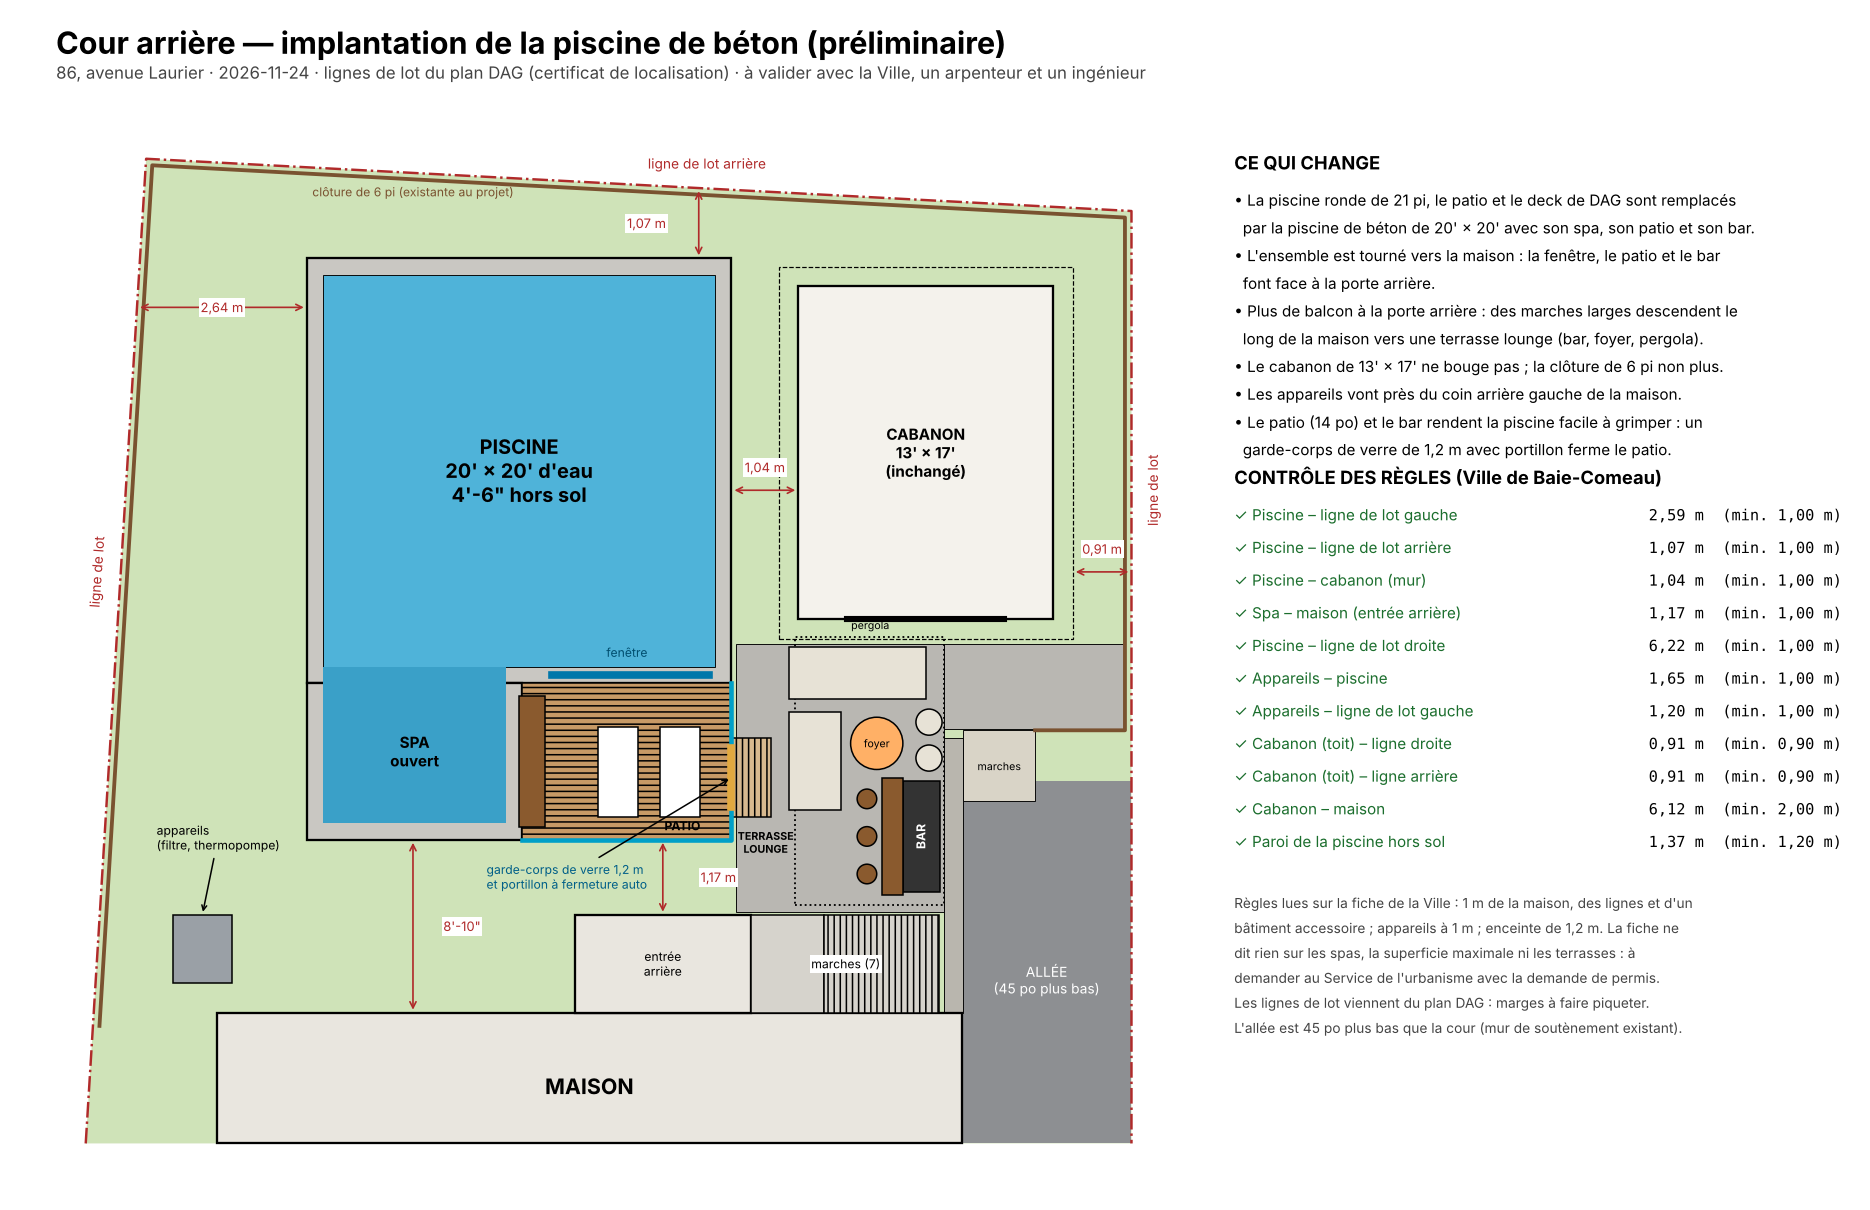
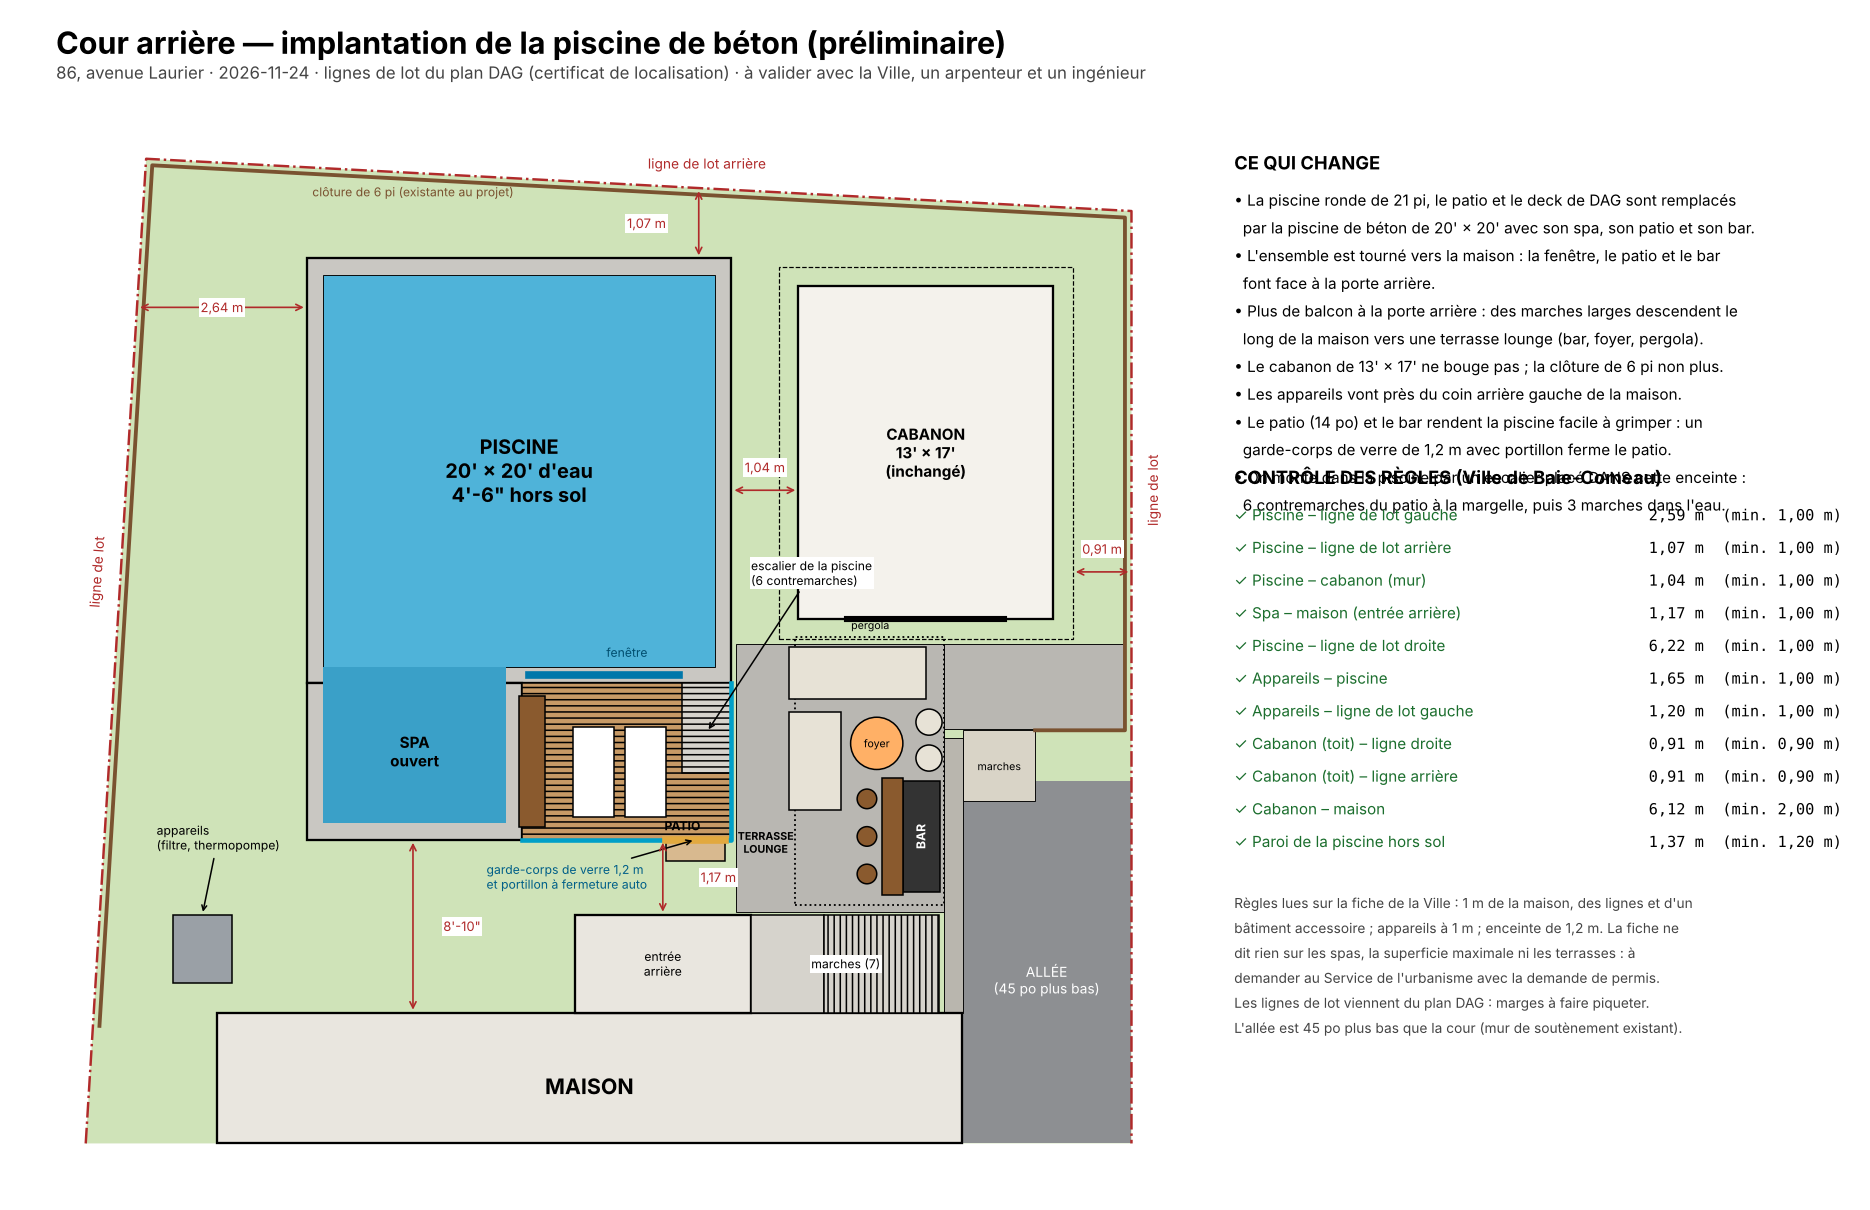
Étude piscine de béton : escalier d'accès à la piscine dans l'enceinte du patio, portillon déplacé devant, marches dans l'eau
Claude-Session: https://claude.ai/code/session_01Cx4tH5HqnUbsFvfqaidtfy

Changed region(s): [[0.2791, 0.5504, 0.4342, 0.7339], [0.6824, 0.3669, 0.9305, 0.4281], [0.4032, 0.4587, 0.4652, 0.4893]]

diff --git a/renovation/etudes/piscine_beton/cour3d.html b/renovation/etudes/piscine_beton/cour3d.html
@@ -35,7 +35,7 @@ button[aria-pressed="true"] { background: var(--encre); color: #fff; }
 </div>
 <div class="pied">
   <span><b>Piscine</b> 20' × 20' d'eau</span><span><b>Spa</b> 11'-0" × 8'-0"</span><span><b>Hauteur</b> 4'-6", eau 4'-0"</span>
-  <span><b>Fenêtre</b> 8'-0" × 2'-6"</span><span><b>Patio</b> 10'-8" × 8'-0", bar au spa</span><span><b>Marges</b> 1 m et plus partout</span><span class="long">Préliminaire, à valider avec la Ville</span>
+  <span><b>Fenêtre</b> 7'-8" × 2'-6"</span><span><b>Patio</b> 10'-8" × 8'-0", bar au spa</span><span><b>Accès</b> escalier dans l'enceinte du patio</span><span><b>Marges</b> 1 m et plus partout</span><span class="long">Préliminaire, à valider avec la Ville</span>
 </div>
 <script src="https://cdnjs.cloudflare.com/ajax/libs/three.js/r128/three.min.js"></script>
 <script src="https://cdn.jsdelivr.net/npm/three@0.128.0/examples/js/controls/OrbitControls.js"></script>
@@ -89,7 +89,7 @@ function B(x0, x1, y0, y1, z0, z1, mat, o = {}) {
     const uv = geo.attributes.uv, n = geo.attributes.normal; for (let i = 0; i < uv.count; i++) {
       const ax = Math.abs(n.getX(i)), ay = Math.abs(n.getY(i)); const su = ax > .5 ? d : w, sv = ay > .5 ? d : h; uv.setXY(i, uv.getX(i) * su / 4, uv.getY(i) * sv / 4); } }
   m.position.set((x0 + x1) / 2, (y0 + y1) / 2, (z0 + z1) / 2); m.castShadow = o.ombre !== false; m.receiveShadow = true; S.add(m); return m; }
-const L = 21.67, P = 21.67, T = .83, H = 4.5, EAU = 4.0, SW = 11, SD = 8, F0 = 12.5, F1 = 20.5, FZ0 = 1.17, FZ1 = 3.67;
+const L = 21.67, P = 21.67, T = .83, H = 4.5, EAU = 4.0, SW = 11, SD = 8, F0 = 11.33, F1 = 19.0, FZ0 = 1.17, FZ1 = 3.67;
 // terrain et dallage
 const gz = new THREE.Mesh(new THREE.PlaneGeometry(400, 400), M.herbe); gz.rotation.x = -Math.PI / 2; gz.receiveShadow = true; S.add(gz);
 
@@ -101,7 +101,7 @@ B(0, SW, 0, H, SD - T, SD, M.beton); B(SW - T, SW, 0, H, -T, SD, M.beton);
 B(SW - T, F0, 0, H, -T, 0, M.beton); B(F1, L, 0, H, -T, 0, M.beton); B(F0, F1, 0, FZ0, -T, 0, M.beton); B(F0, F1, FZ1, H, -T, 0, M.beton);
 B(T, SW - T, .5, 2.4, -T, 0, M.cuve);                                                             // seuil sous l'eau
 B(T, T + 1.5, .5, 2.5, 0, SD - T, M.cuve); B(SW - T - 1.5, SW - T, .5, 2.5, 0, SD - T, M.cuve); B(T, SW - T, .5, 2.5, SD - T - 1.5, SD - T, M.cuve);   // banc en U
-for (let k = 0; k < 3; k++) B(L - T - 5, L - T, .5, 3.25 - k * .9, -P + T + k * 1, -P + T + (k + 1) * 1, M.cuve);          // marches
+for (let k = 0; k < 3; k++) B(L - T - 3, L - T, .5, 3.25 - k * .9, -T - (k + 1), -T - k, M.cuve);                       // marches dans l'eau, au pied de l'escalier du patio
 // margelle
 const mg = (x0, x1, z0, z1) => B(x0, x1, H, H + .17, z0, z1, M.marg);
 mg(-.1, L + .1, -P - .1, -P + T + .1); mg(L - T - .1, L + .1, -P, .1); mg(-.1, T + .1, -P, SD + .1); mg(0, SW + .1, SD - T - .1, SD + .1); mg(SW - T - .1, SW + .1, -T, SD); mg(SW, L, -T - .1, .1);
@@ -124,8 +124,15 @@ function chaise(x, z, y = .5) { B(x, x + 2.1, y + .4, y + .55, z, z + 4.6, M.bla
   for (const [a, c] of [[.1, .3], [1.9, .3], [.1, 4.2], [1.9, 4.2]]) B(x + a, x + a + .1, y, y + .4, z + c, z + c + .1, M.noir); }
 // patio pour se faire griller : plancher de bois à la hauteur du bas de la fenêtre, dans le coin entre le spa et la piscine
 const PY = FZ0 - .12;
-B(SW, L + .3, 0, PY, 0, SD + .3, M.bois); B(L + .3, L + 1.4, 0, PY / 2, 2.4, 5.6, M.bois);                     // plancher et une marche du côté du cabanon
-chaise(14.6, 2.6, PY); chaise(17.8, 2.6, PY);
+B(SW, L + .3, 0, PY, 0, SD + .3, M.bois); B(L - 3.3, L - .3, 0, PY / 2, SD + .3, SD + 1.4, M.bois);              // plancher et une marche devant le portillon
+// escalier de la piscine, DANS l'enceinte du patio : 6 contremarches de 6⅔ po du patio (14 po) à la margelle (54 po), 2'-6" de large,
+// le long du garde-corps de droite ; mains courantes noires des deux côtés
+const EX0 = L - 2.5, NM = 5, GIR = .92, HM = (H + .17 - PY) / (NM + 1);
+for (let k = 0; k < NM; k++) B(EX0, L, PY, PY + HM * (NM - k), k * GIR, (k + 1) * GIR, M.beton);
+for (const x of [EX0 - .08, L - .08]) { const dz = NM * GIR, dy = HM * NM, r = new THREE.Mesh(new THREE.BoxGeometry(.12, .12, Math.hypot(dz, dy) + .6), M.noir);
+  r.position.set(x + .06, PY + 2.9 + dy / 2 + HM, dz / 2); r.rotation.x = Math.atan2(dy, dz); S.add(r);
+  for (const z of [.15, dz]) B(x, x + .12, z < 1 ? H + .17 : PY, z < 1 ? H + 3.2 : PY + HM + 2.9, z, z + .12, M.noir); }
+chaise(13.6, 2.9, PY); chaise(16.3, 2.9, PY);
 // petit bar sur le mur du spa : comptoir de bois à la hauteur de la margelle, 3 tabourets côté patio
 B(SW - T - .1, SW + 1.25, H + .17, H + .32, .6, SD - .6, M.bois);
 for (const z of [1.8, 4, 6.2]) { const s = new THREE.Mesh(new THREE.CylinderGeometry(.55, .55, .12, 18), M.noir); s.position.set(SW + 1.5, PY + 2.4, z); s.castShadow = true; S.add(s);
@@ -200,15 +207,17 @@ for (const [a, b, c, d] of [[-68, 372, -39.67, 898.82], [-39.67, 898.82, 556, 86
 // appareils de la piscine
 Yd(-27, 398, 9, 440, 0, .3, M.dalle); Yd(-24, 402, -2, 436, .3, 3.2, M.gris); Yd(1, 408, 8, 430, .3, 2.6, M.gris);
 // enceinte du patio : garde-corps de verre de 4 pi (1,2 m) et portillon à fermeture automatique devant la marche
-B(SW, L + .3, PY, PY + 4, SD + .22, SD + .3, M.verre, { ombre: false }); B(L + .22, L + .3, PY, PY + 4, 0, 2.4, M.verre, { ombre: false }); B(L + .22, L + .3, PY, PY + 4, 5.6, SD + .3, M.verre, { ombre: false });
-B(L + .2, L + .32, PY, PY + 4, 2.4, 2.5, M.noir); B(L + .2, L + .32, PY, PY + 4, 5.5, 5.6, M.noir); B(L + .2, L + .32, PY + 3.9, PY + 4, 2.4, 5.6, M.noir); B(L + .2, L + .32, PY + .15, PY + .25, 2.4, 5.6, M.noir);
-for (const z of [3, 3.6, 4.2, 4.8]) B(L + .23, L + .29, PY + .25, PY + 3.9, z, z + .06, M.noir);
+B(SW, L - 3.3, PY, PY + 4, SD + .22, SD + .3, M.verre, { ombre: false }); B(L - .3, L + .3, PY, PY + 4, SD + .22, SD + .3, M.verre, { ombre: false });
+B(L + .22, L + .3, PY, PY + 4, NM * GIR, SD + .3, M.verre, { ombre: false }); B(L + .22, L + .3, PY, H + 4.2, 0, NM * GIR, M.verre, { ombre: false });      // plus haut le long de l'escalier
+B(L - 3.3, L - 3.2, PY, PY + 4, SD + .2, SD + .32, M.noir); B(L - .4, L - .3, PY, PY + 4, SD + .2, SD + .32, M.noir); B(L - 3.3, L - .3, PY + 3.9, PY + 4, SD + .2, SD + .32, M.noir); B(L - 3.3, L - .3, PY + .15, PY + .25, SD + .2, SD + .32, M.noir);
+for (const x of [L - 2.7, L - 2.1, L - 1.5, L - .9]) B(x, x + .06, PY + .25, PY + 3.9, SD + .23, SD + .29, M.noir);
+Yd(262, 442, 318, 486, 0, .13, M.dalleF, { ombre: false });
 perso(lx(385), lz(478), 0x2f4858, 1); perso(lx(330), lz(590), 0xe2a93f, .66);
 for (const [x, y, hh] of [[60, 960, 12], [260, 950, 14], [470, 940, 11], [-130, 700, 12], [-140, 480, 10], [640, 760, 13]]) arbre(lx(x), lz(y), hh);
 
 
 // vues
-const VUES = { "v-cour": [[15, 17, 15.3], [17, 1, -3]], "v-fenetre": [[24, 7.5, 13.5], [14.5, 2.6, 1]], "v-haut": [[17, 95, 9], [17, 0, -3]], "v-lounge": [[17.5, 7.2, 7.5], [30, 2.6, 4.2]] };
+const VUES = { "v-cour": [[15, 17, 15.3], [17, 1, -3]], "v-fenetre": [[11.5, 9.5, 11], [19, 3, 1.5]], "v-haut": [[17, 95, 9], [17, 0, -3]], "v-lounge": [[17.5, 7.2, 7.5], [30, 2.6, 4.2]] };
 let cible = null;
 function aller(id) { cible = { p: new THREE.Vector3(...VUES[id][0]), t: new THREE.Vector3(...VUES[id][1]) };
   for (const b of document.querySelectorAll(".vues button")) b.setAttribute("aria-pressed", b.id === id); }

diff --git a/renovation/etudes/piscine_beton/cour_plan.py b/renovation/etudes/piscine_beton/cour_plan.py
@@ -62,14 +62,14 @@ if __name__ == "__main__":
         a.add_patch(Rectangle((x0, y0), x1 - x0, y1 - y0, fc=BET, ec="k", lw=1.5))
     a.add_patch(Rectangle((PISC[0] + 10, PISC[1] + 10), PL - 20, PW - 20, fc=EAU, ec="k", lw=.6)); a.add_patch(Rectangle((SPA[0] + 10, SPA[1] + 10), SW - 20, SD, fc=SPAC, ec="none"))
     a.add_patch(Rectangle(PATIO[:2], PATIO[2] - PATIO[0], SD, fc=BOIS, ec="k", hatch="---"))
-    a.add_patch(Rectangle((PATIO[0] - 2, YF + 8), 16, SD - 16, fc="#8a5a2e", ec="k")); a.plot([X0 + 150, X0 + 246], [YP + 5, YP + 5], color="#0077aa", lw=5)
-    for xx in (X0 + 178, X0 + 216): a.add_patch(Rectangle((xx, YF + 14), 25, 55, fc="white", ec="k"))
+    a.add_patch(Rectangle((PATIO[0] - 2, YF + 8), 16, SD - 16, fc="#8a5a2e", ec="k")); a.plot([X0 + 136, X0 + 228], [YP + 5, YP + 5], color="#0077aa", lw=5)
+    for xx in (X0 + 163, X0 + 195): a.add_patch(Rectangle((xx, YF + 14), 25, 55, fc="white", ec="k"))
     a.text(X0 + PL / 2, YP + PW / 2, "PISCINE\n20' × 20' d'eau\n4'-6\" hors sol", ha="center", va="center", fontsize=13, fontweight="bold"); a.text(X0 + SW / 2, YF + SD / 2 + 6, "SPA\nouvert", ha="center", va="center", fontsize=10, fontweight="bold")
     a.text(X0 + 196, YP + 16, "fenêtre", ha="center", fontsize=8, color="#004d6e"); a.text(X0 + PL - 30, YF + 4, "PATIO", fontsize=8, fontweight="bold", ha="center", va="bottom")
     # enceinte du patio : garde-corps de verre de 1,2 m et portillon
-    a.plot([PATIO[0], PATIO[2], PATIO[2]], [YF, YF, YP], color="#00a0c8", lw=3); a.plot([PATIO[2], PATIO[2]], [YF + 20, YF + 56], color="#e2a93f", lw=5)
-    a.annotate("garde-corps de verre 1,2 m\net portillon à fermeture auto", (PATIO[2], YF + 38), (PATIO[2] - 150, YF - 30), fontsize=8, arrowprops=dict(arrowstyle="->"), color="#005f88")
-    a.add_patch(Rectangle((PATIO[2], YF + 14), 24, 48, fc="#d8b98f", ec="k", hatch="|||")); 
+    a.plot([PATIO[0], PATIO[2], PATIO[2]], [YF, YF, YP], color="#00a0c8", lw=3); a.plot([PATIO[2] - 40, PATIO[2] - 4], [YF, YF], color="#e2a93f", lw=5)
+    a.annotate("garde-corps de verre 1,2 m\net portillon à fermeture auto", (PATIO[2] - 22, YF), (PATIO[2] - 150, YF - 30), fontsize=8, arrowprops=dict(arrowstyle="->"), color="#005f88")
+    a.add_patch(Rectangle((PATIO[2] - 40, YF - 13), 36, 13, fc="#d8b98f", ec="k")); a.add_patch(Rectangle((PATIO[2] - 30, YP - 55), 30, 55, fc="#d6d3cc", ec="k", hatch="---")); a.annotate("escalier de la piscine\n(6 contremarches)", (PATIO[2] - 15, YP - 30), (PATIO[2] + 12, YP + 60), fontsize=8, arrowprops=dict(arrowstyle="->"), bbox=dict(fc="white", ec="none", pad=1))
     a.add_patch(Rectangle(APP[:2], APP[2] - APP[0], APP[3] - APP[1], fc="#9aa0a6", ec="k")); a.annotate("appareils\n(filtre, thermopompe)", (APP[0] + 18, APP[3]), (APP[0] - 10, APP[3] + 40), fontsize=8, arrowprops=dict(arrowstyle="->"))
     def cote(x0, y0, x1, y1, t, dx=0, dy=0):
         a.annotate("", (x0, y0), (x1, y1), arrowprops=dict(arrowstyle="<->", lw=1.1, color="#b02a2a"))
@@ -89,7 +89,9 @@ if __name__ == "__main__":
         "• Le cabanon de 13' × 17' ne bouge pas ; la clôture de 6 pi non plus.",
         "• Les appareils vont près du coin arrière gauche de la maison.",
         "• Le patio (14 po) et le bar rendent la piscine facile à grimper : un",
-        "  garde-corps de verre de 1,2 m avec portillon ferme le patio."]), fontsize=10, va="top", linespacing=1.5)
+        "  garde-corps de verre de 1,2 m avec portillon ferme le patio.",
+        "• On monte dans la piscine par un escalier placé DANS cette enceinte :",
+        "  6 contremarches du patio à la margelle, puis 3 marches dans l'eau."]), fontsize=10, va="top", linespacing=1.5)
     fig.text(0.66, 0.60, "CONTRÔLE DES RÈGLES (Ville de Baie-Comeau)", fontweight="bold", fontsize=12)
     y = 0.57
     for nom, v, mini in CONTROLES:
